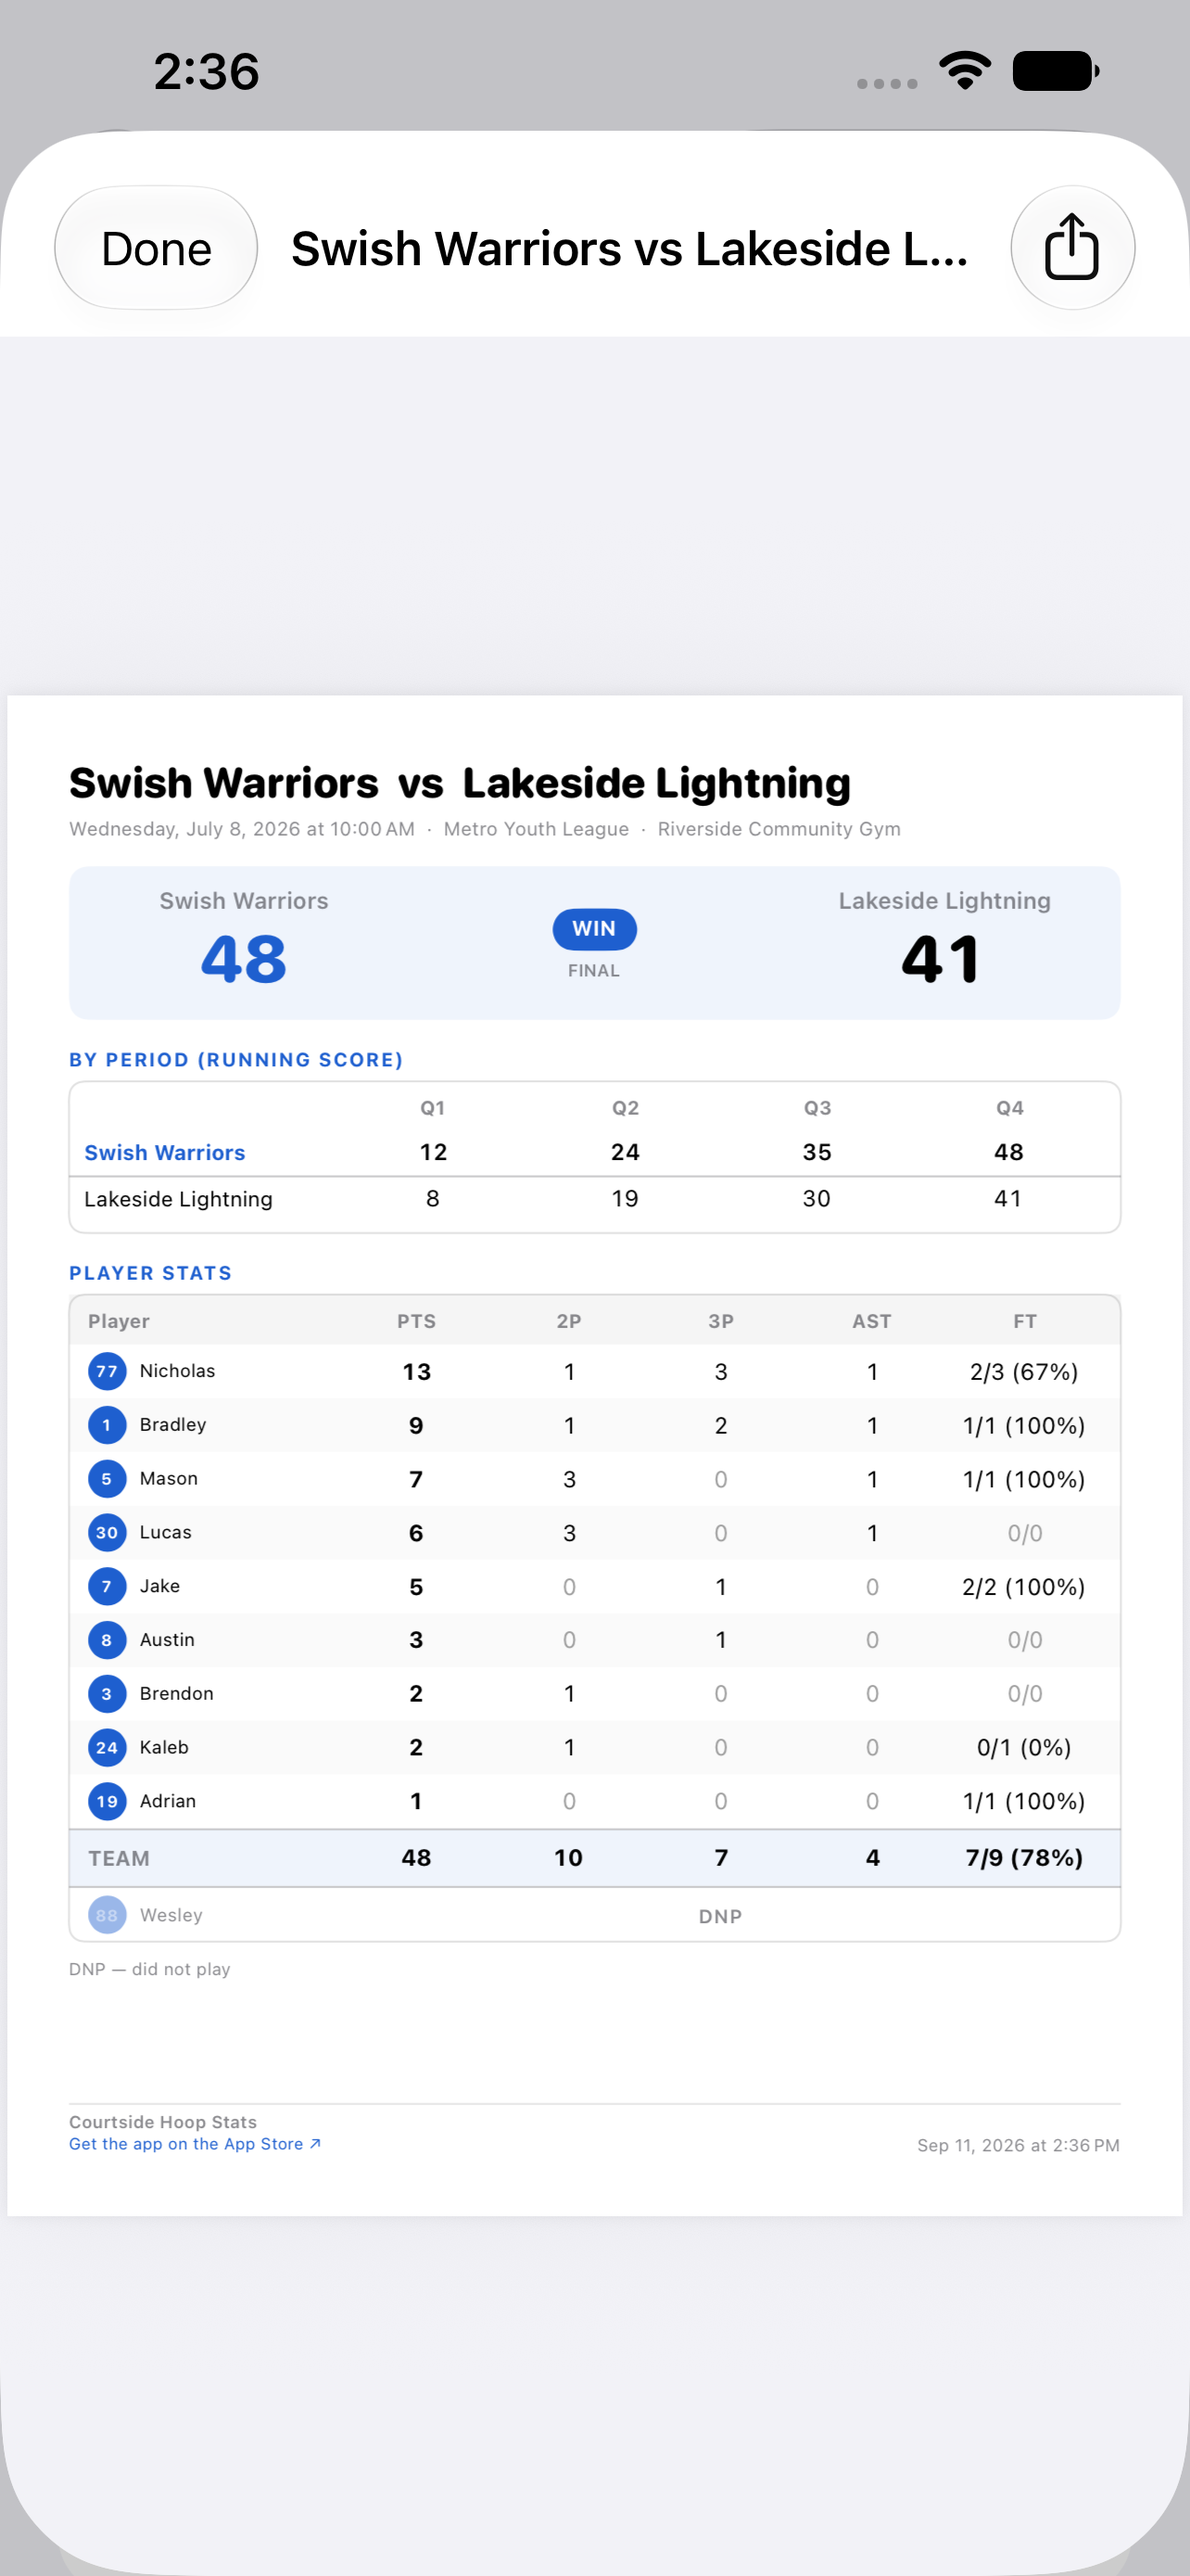
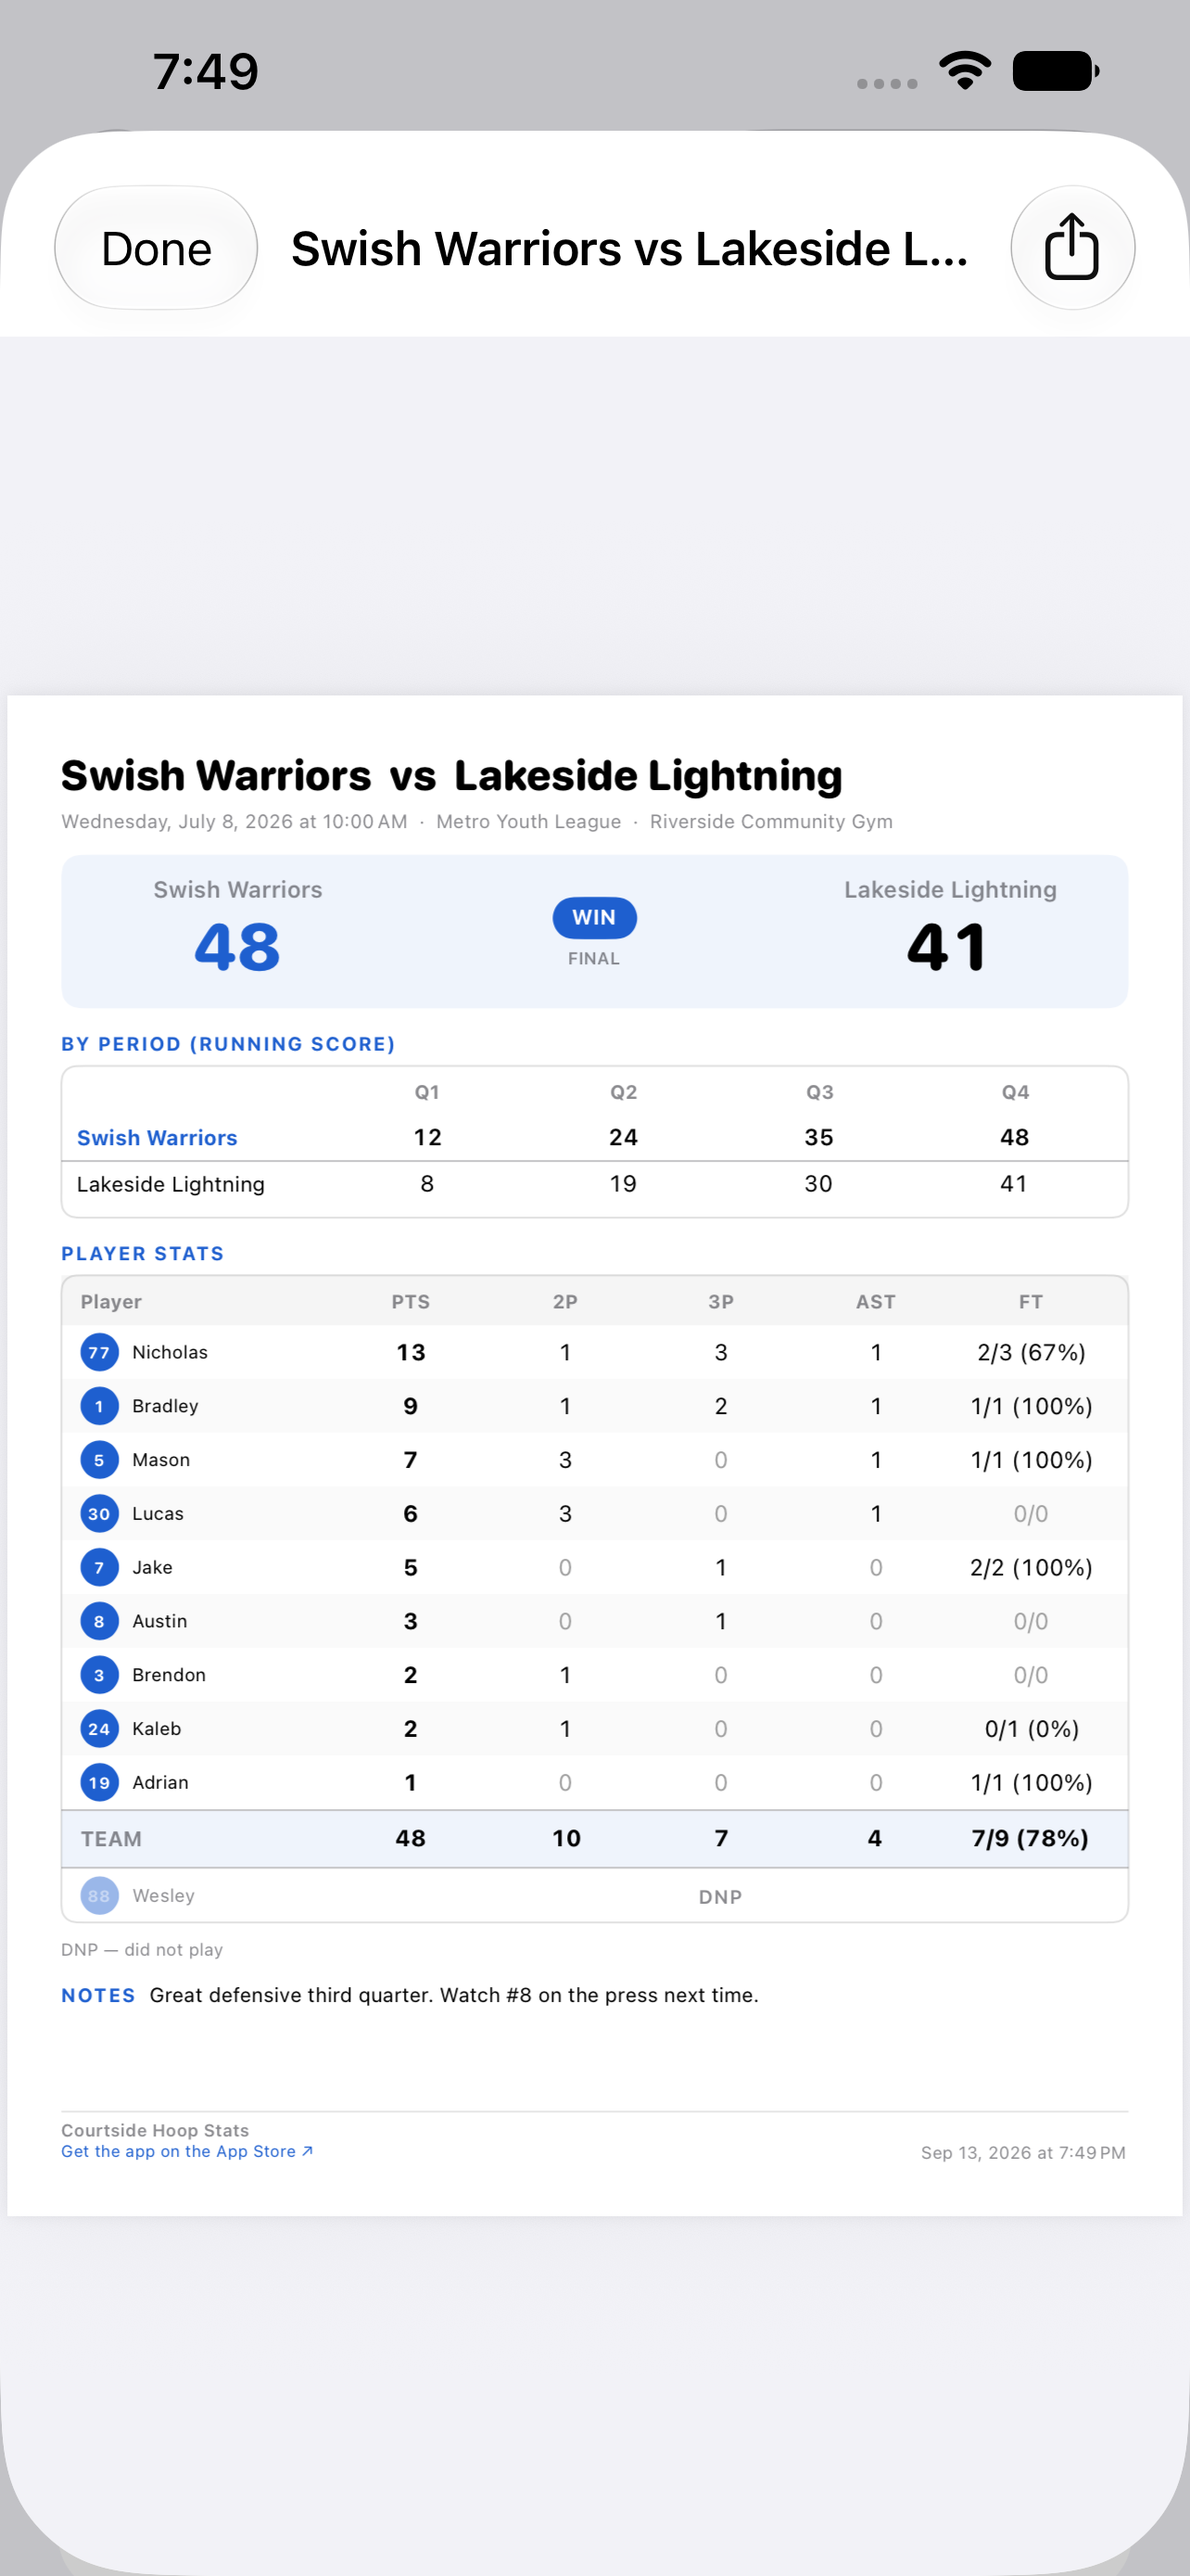
Show the owner's notes to followers (#170)
They were already being sent. A game crosses the wire as one encoded blob
(`CloudKitSchema.apply`), so `notes` has been uploaded to the share zone and
cached on every follower's device all along — with no screen to show it. That
was an oversight rather than a decision: `FollowedGameView`'s own doc comment
claims it shows everything the owner's Game Summary does, and
`docs/PRIVACY_POLICY.md` told invitees they see "the roster, scores, and
stats", which understated what was actually transmitted.

So: show it, and say so.

- A follower's game view gains a Notes section, headed "Notes from Jean
  (Nicky's mom)" — the list carries "Shared by" in the navigation subtitle,
  but that's two screens away by the time anyone reads a note. Falls back to
  plain "Notes" when the owner hasn't set a name.
- The box score PDF carries the note too, on both the owner's export and a
  follower's.
- The editor's Notes field now says "Followers of this team can read these."
  where the note is typed, rather than letting someone find out by being
  quoted back at.
- The privacy policy now lists notes among what invitees see.

**The PDF is now completely full.** Adding one line overran US Letter with a
twelve-player roster — 827pt of 792 — and fitting it took a single-line inline
block instead of a stacked section, stack spacing 14 → 12, and the page margin
32 → 28. `testRendersASingleLetterPage` holds that line. The note truncates in
[…]

diff --git a/CourtsideHoopStats/Views/GameSummaryPDF.swift b/CourtsideHoopStats/Views/GameSummaryPDF.swift
@@ -17,7 +17,11 @@ private enum Page {
     /// US Letter at 72dpi. Letter rather than A4 because the audience is a US
     /// youth league; it also prints acceptably on A4 with default scaling.
     static let size = CGSize(width: 612, height: 792)
-    static let margin: CGFloat = 32
+    /// 32 originally. Trimmed to make room for the Notes line: with a
+    /// twelve-player roster the page is completely full, and the note
+    /// overran US Letter (827pt of 792) until the stack's spacing came down
+    /// and this with it. 28pt is still a normal printable margin.
+    static let margin: CGFloat = 28
     static var contentWidth: CGFloat { size.width - margin * 2 }
     static var contentHeight: CGFloat { size.height - margin * 2 }
 }
@@ -81,11 +85,12 @@ struct GameSummaryPrintout: View {
     }
 
     var body: some View {
-        VStack(alignment: .leading, spacing: 14) {
+        VStack(alignment: .leading, spacing: 12) {
             header
             scoreBand
             periodTable
             statsTable
+            notesBlock
             Spacer(minLength: 0)
             footer
         }
@@ -340,6 +345,43 @@ struct GameSummaryPrintout: View {
     }
 
     // MARK: Chrome
+
+    /// The tracker's note, under the box score.
+    ///
+    /// Sits below the numbers and above the `Spacer` that absorbs the page's
+    /// slack, so on a normal game it lands in the whitespace that was empty
+    /// anyway. Capped at four lines: this page is a one-pager by design, and
+    /// a long note should lose its tail rather than push the footer — and the
+    /// App Store link anchored to it — onto a second sheet.
+    @ViewBuilder
+    private var notesBlock: some View {
+        if !game.notes.isEmpty {
+            // Label and text on one line rather than a stacked section. The
+            // page is a one-pager by design and a full section's worth of
+            // chrome — title, its own spacing, the parent stack's gap — was
+            // enough to push a twelve-player roster onto a second sheet
+            // (`testRendersASingleLetterPage` caught it at 827pt of 792).
+            //
+            // **One line.** Not a taste call — the page is genuinely full. A
+            // twelve-player roster plus the note overran US Letter at two
+            // lines (798pt of 792) even after the stack's spacing came down
+            // from 14 to 12. A long note truncates rather than pushing the
+            // footer — and the App Store link anchored to it — onto a second
+            // sheet.
+            //
+            // This is the clearest argument for exporting an image instead of
+            // a PDF: there is no room left for anything, and a raster export
+            // would simply get taller.
+            HStack(alignment: .firstTextBaseline, spacing: 6) {
+                sectionTitle("Notes")
+                Text(game.notes)
+                    .font(.system(size: 10.5))
+                    .foregroundStyle(.black)
+                    .lineLimit(1)
+                    .truncationMode(.tail)
+            }
+        }
+    }
 
     private func sectionTitle(_ text: String) -> some View {
         Text(text.uppercased())

diff --git a/CourtsideHoopStats/Views/FollowingView.swift b/CourtsideHoopStats/Views/FollowingView.swift
@@ -524,6 +524,35 @@ private struct FollowedGameView: View {
                     PeriodBreakdownGrid(game: game, ourName: teamName)
                 }
             }
+
+            // The tracker's note on the game. It was always being published —
+            // a game goes over the wire as one encoded blob, so `notes` has
+            // been sitting on every follower's device all along with no screen
+            // to show it. That was an oversight rather than a decision: this
+            // view's own doc comment claims it shows everything the owner's
+            // Game Summary does.
+            //
+            // Last, below the numbers: a follower opens this for the score,
+            // and the note is colour rather than the thing they came for.
+            if !game.notes.isEmpty {
+                Section {
+                    Text(game.notes)
+                } header: {
+                    // Say whose words these are. The follower's *list* carries
+                    // "Shared by Jean (Nicky's mom)" in the navigation
+                    // subtitle, but that's two screens away by the time anyone
+                    // reads a note — and an unattributed opinion about a game
+                    // reads oddly on a screen that's otherwise all numbers.
+                    //
+                    // Degrades to plain "Notes" when the owner hasn't set a
+                    // name (it's optional, and #166 only prompts for it).
+                    if let owner = followed?.team.ownerDisplayName, !owner.isEmpty {
+                        Text("Notes from \(owner)")
+                    } else {
+                        Text("Notes")
+                    }
+                }
+            }
         }
     }
 }

diff --git a/CourtsideHoopStatsUITests/FollowingScreenshotTests.swift b/CourtsideHoopStatsUITests/FollowingScreenshotTests.swift
@@ -117,6 +117,19 @@ final class FollowingScreenshotTests: XCTestCase {
         XCTAssertTrue(finished.waitForExistence(timeout: 10))
         finished.tap()
 
+        // The tracker's note, on the follower's side.
+        //
+        // `notes` has always been published — a game crosses the wire as one
+        // encoded blob — so it sat on every follower's device with no screen
+        // showing it. Asserted `isHittable`, since the point is that it's
+        // visible rather than merely decoded.
+        let note = app.staticTexts["Best passing game of the season — 14 assists. Nicholas unstoppable from deep."]
+        for _ in 0..<10 where !note.exists || !note.isHittable { app.swipeUp() }
+        XCTAssertTrue(note.exists && note.isHittable,
+                      "A follower should see the owner's note on the game")
+        snap("26-following-notes")
+        for _ in 0..<10 where !app.buttons["Box Score PDF"].isHittable { app.swipeDown() }
+
         let pdfButton = app.buttons["Box Score PDF"]
         XCTAssertTrue(pdfButton.waitForExistence(timeout: 10),
                       "A finished followed game should offer the box score PDF")

diff --git a/CourtsideHoopStats/Views/GameDetailView.swift b/CourtsideHoopStats/Views/GameDetailView.swift
@@ -182,9 +182,18 @@ struct EditGameSheet: View {
                     }
                 }
 
-                Section("Notes") {
+                Section {
                     TextField("Scouting notes, observations…", text: $notes, axis: .vertical)
                         .lineLimit(3...10)
+                } header: {
+                    Text("Notes")
+                } footer: {
+                    // Say so where it's typed. Notes have always travelled to
+                    // followers inside the published game blob; now that a
+                    // follower's screen actually shows them, the person
+                    // writing one should know who reads it — not find out
+                    // from someone quoting it back.
+                    Text("Followers of this team can read these.")
                 }
 
                 // Only the "oops, tapped Start Game by mistake" case (#133):

diff --git a/CourtsideHoopStats/Models/DemoData.swift b/CourtsideHoopStats/Models/DemoData.swift
@@ -236,6 +236,10 @@ enum DemoData {
                               2: PeriodEndScore(ourRunningTotal: 15, opponentRunningTotal: 13),
                               3: PeriodEndScore(ourRunningTotal: 21, opponentRunningTotal: 19),
                               4: PeriodEndScore(ourRunningTotal: 28, opponentRunningTotal: 24)],
+            // A followed game with a note on it, so the follower's Notes
+            // section is reachable in a screenshot. There was no followed game
+            // carrying one before, which is part of how this went unnoticed.
+            notes: "Best passing game of the season — 14 assists. Nicholas unstoppable from deep.",
             isComplete: true,
             hasStarted: true
         )

diff --git a/docs/REQUIREMENTS.md b/docs/REQUIREMENTS.md
@@ -42,7 +42,7 @@ still decodes (a `try?` decode failure would wipe the user's games).
 ## 3. Features (current)
 
 **Tabs:** Games · Roster · Settings, plus a **Following** tab that appears only
-when someone has shared a team with you (§3.10). The "Shared by" name is **per team** on purpose — "Jean (Nicky's mom)" is a different answer for a different child's team — and the Followers screen asks for it when a shared team hasn't got one, that being the only screen where it has any effect. The team last viewed is remembered across launches, and **Switch Team** (shown only when following two or more) carries its own label rather than a bare icon.
+when someone has shared a team with you (§3.10). A follower sees the owner's **game notes** too, on screen and in the box score PDF — they were always published inside the game blob, so this shows what was already on their device. The editor says so where the note is typed. The "Shared by" name is **per team** on purpose — "Jean (Nicky's mom)" is a different answer for a different child's team — and the Followers screen asks for it when a shared team hasn't got one, that being the only screen where it has any effect. The team last viewed is remembered across launches, and **Switch Team** (shown only when following two or more) carries its own label rather than a bare icon.
 
 ### 3.1 Roster (Roster tab)
 - Team name (editable inline), players with **name** + **jersey number** (String, handles "0"/"00").

diff --git a/docs/PRIVACY_POLICY.md b/docs/PRIVACY_POLICY.md
@@ -29,8 +29,8 @@ can see them. This is the same mechanism behind an iCloud Shared Album.
   a team, and stopping sharing removes the shared copy.
 - **Only people you invite** can see it. Invitations go to specific Apple
   Accounts; there is no public link.
-- **They can view, not change.** People you invite see the roster, scores, and
-  stats read-only.
+- **They can view, not change.** People you invite see the roster, scores,
+  stats, and any notes you write on a game — read-only.
 - **The developer cannot see any of it.** The data sits in your iCloud account,
   governed by [Apple's Privacy Policy](https://www.apple.com/legal/privacy/).
   We have no access to it and receive no copy.
